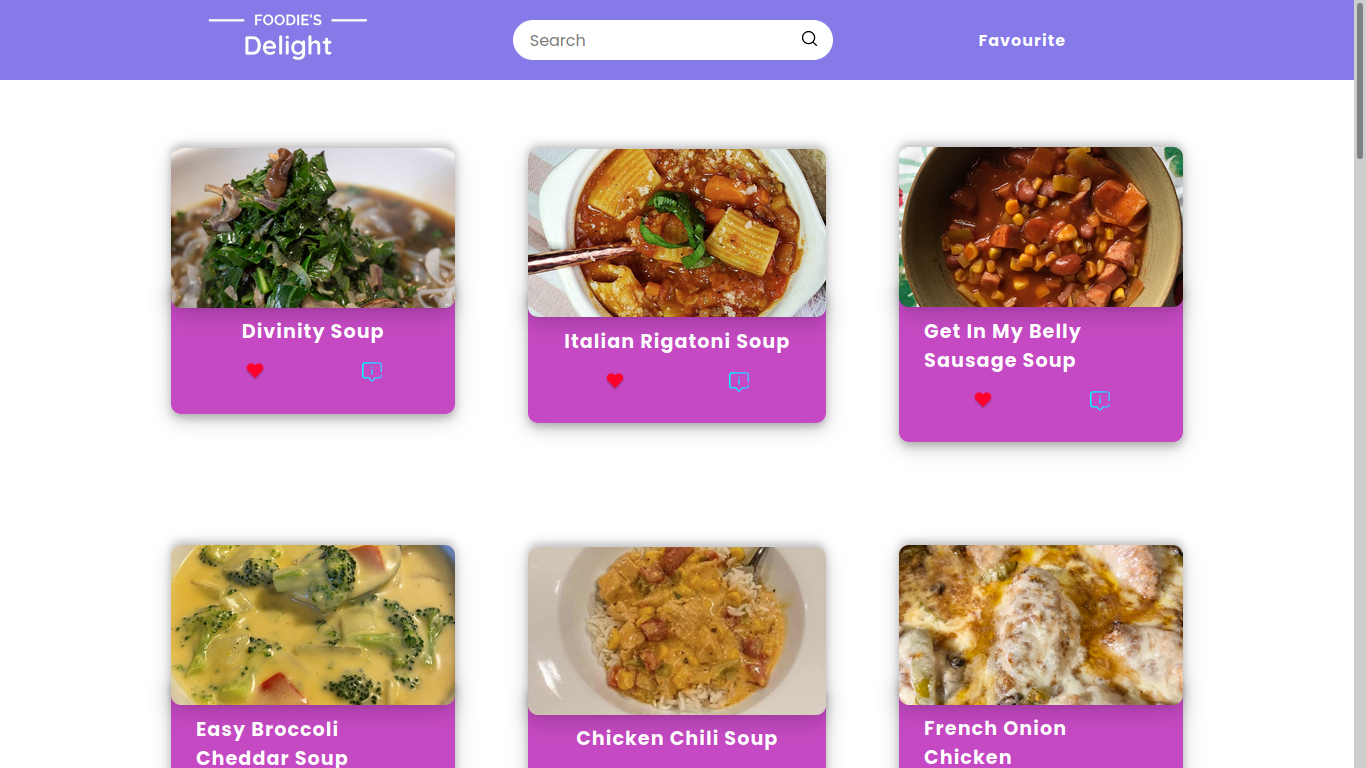
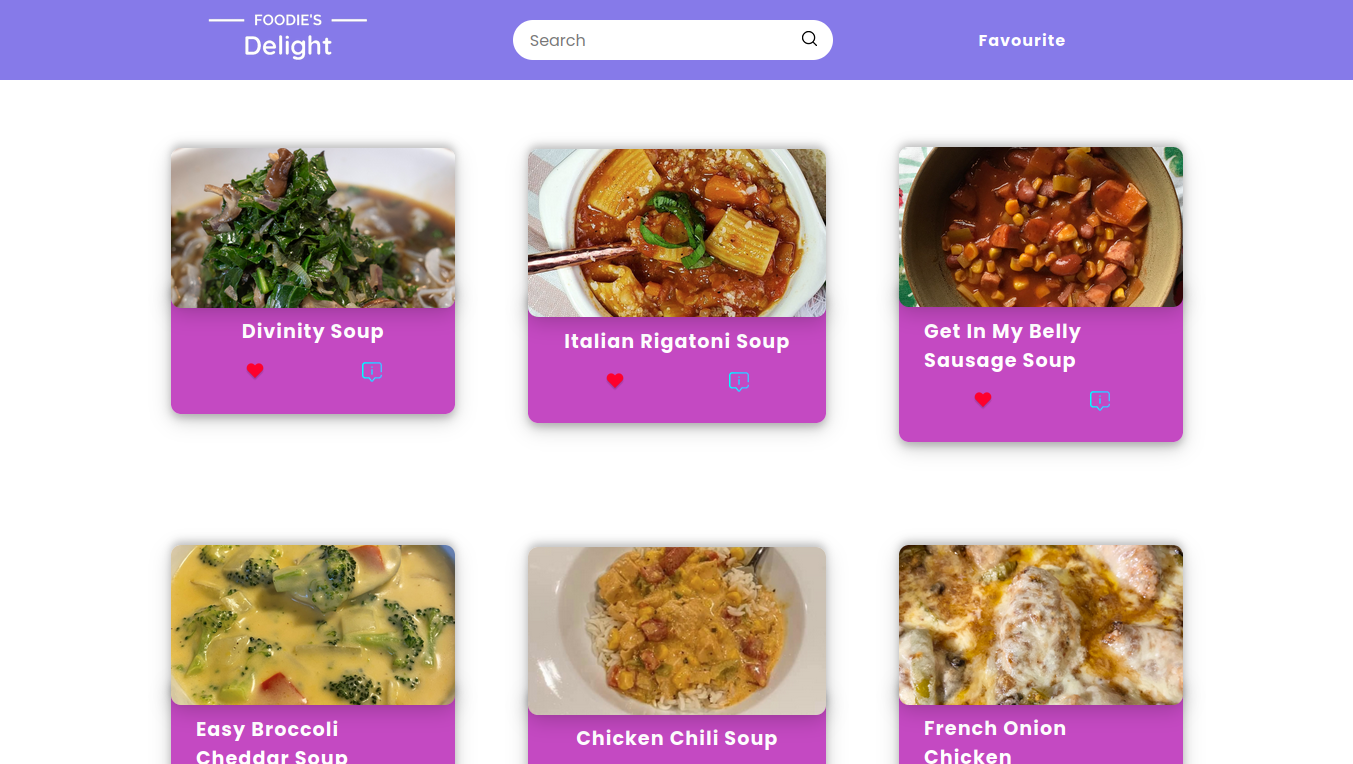
design changes

diff --git a/css/main.css b/css/main.css
@@ -28,7 +28,7 @@ img {
 .pro-image {
   -webkit-box-shadow: 0 4px 8px 0 rgba(0, 0, 0, 0.2), 0 6px 20px 0 rgba(0, 0, 0, 0.19);
           box-shadow: 0 4px 8px 0 rgba(0, 0, 0, 0.2), 0 6px 20px 0 rgba(0, 0, 0, 0.19);
-  border-radius: 1em;
+  border-radius: 0.5em;
 }
 
 .pro-skill {
@@ -42,6 +42,10 @@ img {
 
 .nav-container a {
   color: white;
+}
+
+.hero-span {
+  font-weight: bold;
 }
 
 header {
@@ -72,8 +76,7 @@ header ul a {
 
 .social-header,
 .hero-design,
-.feature-svg,
-.project-svg {
+.feature-svg {
   display: none;
 }
 
@@ -166,7 +169,7 @@ section {
 }
 
 .portfolio-container a img {
-  border-radius: 1em;
+  border-radius: 0.5em;
   margin-bottom: 2em;
 }
 
@@ -205,7 +208,36 @@ button.myBtn:hover {
           transform: scale(1.25);
 }
 
+@media only screen and (max-width: 450px) {
+  header .logo {
+    display: none;
+  }
+  header nav {
+    width: 100%;
+  }
+  header nav ul {
+    -webkit-box-pack: justify;
+        -ms-flex-pack: justify;
+            justify-content: space-between;
+  }
+}
+
+@media only screen and (min-width: 500px) {
+  .hero {
+    height: 50vh;
+  }
+  .featured a .pro-image {
+    width: 80%;
+  }
+  .portfolio .portfolio-container a .pro-image {
+    width: 75%;
+  }
+}
+
 @media only screen and (min-width: 800px) {
+  .featured a .pro-image {
+    width: 100%;
+  }
   .featured,
   .portfolio {
     text-align: left;
@@ -221,7 +253,9 @@ button.myBtn:hover {
   .portfolio-left {
     display: -ms-grid;
     display: grid;
-    place-content: center;
+    -webkit-box-align: center;
+        -ms-flex-align: center;
+            align-items: center;
   }
   .right {
     margin-left: 2em;
@@ -281,9 +315,6 @@ button.myBtn:hover {
 }
 
 @media only screen and (min-width: 1140px) {
-  .hero {
-    height: 70vh;
-  }
   .nav-container {
     display: -ms-grid;
     display: grid;
@@ -327,6 +358,7 @@ button.myBtn:hover {
         grid-template-columns: 66% auto;
     background: unset;
     padding: 0;
+    height: 100vh;
   }
   .hero .content {
     background: #6e00ff;
@@ -343,7 +375,7 @@ button.myBtn:hover {
     margin-top: 20%;
     width: 100%;
   }
-  .portfolio img {
+  .portfolio .pro-image {
     float: right;
     max-width: 500px;
   }

diff --git a/css/main.scss b/css/main.scss
@@ -35,6 +35,10 @@ img {
     color: white;
   }
 }
+
+.hero-span{
+  font-weight: bold;
+}
 header {
   display: flex;
   justify-content: space-between;
@@ -56,8 +60,7 @@ header {
 }
 .social-header,
 .hero-design,
-.feature-svg,
-.project-svg {
+.feature-svg{
   display: none;
 }
 
@@ -148,7 +151,7 @@ section {
 }
 
 .portfolio-container a img {
-  border-radius: 1em;
+  border-radius: 0.5em;
   margin-bottom: 2em;
 }
 .footer {
@@ -184,7 +187,34 @@ button.myBtn:hover {
   transform: scale(1.25);
 }
 
+@media only screen and (max-width: 450px) {
+  header .logo {
+    display: none;
+  }
+  header nav{
+    width: 100%;
+
+    ul {
+      justify-content: space-between;
+    }
+  }
+}
+
+@media only screen and (min-width: 500px) {
+  .hero {
+    height: 50vh;
+  }
+  .featured  a .pro-image{
+    width: 80%;
+  }
+  .portfolio .portfolio-container a .pro-image {
+    width: 75%;
+  }
+}
 @media only screen and (min-width: 800px) {
+  .featured  a .pro-image{
+    width: 100%;
+  }
   .featured,
   .portfolio {
     text-align: left;
@@ -199,7 +229,7 @@ button.myBtn:hover {
   .left,
   .portfolio-left {
     display: grid;
-    place-content: center;
+    align-items: center;
   }
 
   .right {
@@ -254,10 +284,6 @@ button.myBtn:hover {
 }
 
 @media only screen and (min-width: 1140px) {
-  .hero {
-    height: 70vh;
-  }
-
   .nav-container {
     display: grid;
     grid-template-columns: 66% auto;
@@ -296,6 +322,7 @@ button.myBtn:hover {
     grid-template-columns: 66% auto;
     background: unset;
     padding: 0;
+    height: 100vh;
 
     .content {
       background: #6e00ff;
@@ -316,7 +343,7 @@ button.myBtn:hover {
     width: 100%;
   }
 
-  .portfolio img {
+  .portfolio .pro-image {
     float: right;
     max-width: 500px;
   }

diff --git a/index.html b/index.html
@@ -5,7 +5,8 @@
     <meta http-equiv="X-UA-Compatible" content="IE=edge" />
     <meta name="viewport" content="width=device-width, initial-scale=1.0" />
     <title>Somesh | Home Page</title>
-    <link rel="icon" href="img/favicon.png" />
+    <!-- <link rel="icon" href="img/favicon.png" /> -->
+    <link rel="icon" href="img/favicon.gif" type="image/gif" />
     <link rel="stylesheet" href="css/main.css" />
   </head>
   <body>
@@ -44,7 +45,7 @@
     <div class="hero">
       <div class="content">
         <h1 class="stagger1">Hi, This is Somesh Selvakumar.</h1>
-        <p class="stagger1">An undergrad from CEG, Anna University.</p>
+        <p class="stagger1">An undergrad from <span class="hero-span">CEG, Anna University.</span></p>
         <p class="stagger1">Let me show you some of my awesome projects...</p>
         <svg
           width="49"
@@ -160,7 +161,7 @@
           class="right transition2 pro-image"
           src="img/natours.png"
           alt="Featured Project"
-          pro-image
+          class="pro-image"
         />
       </a>
     </section>
@@ -220,7 +221,7 @@
           <div class="inner">
             <p class="featured-title">Foodie's Delight</p>
             <p class="featured-desc">
-              A recipe searching application. Powered by tasty API.
+              A recipe searching application. Powered by Tasty API.
             </p>
           </div>
         </div>
